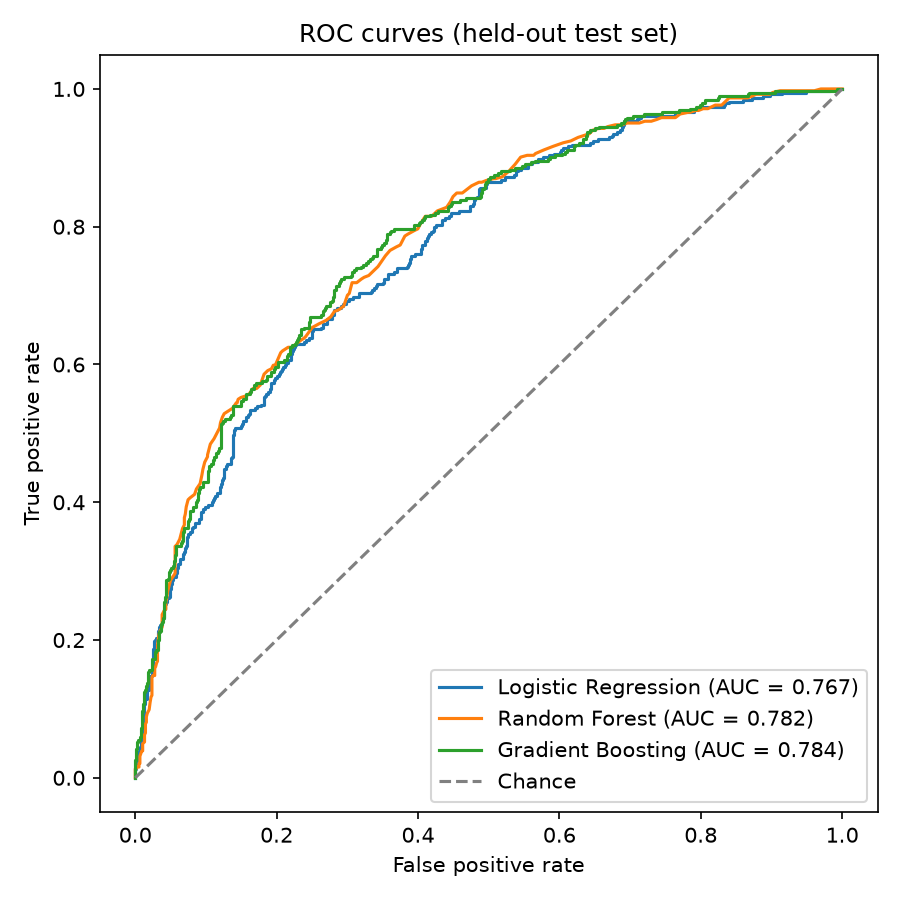
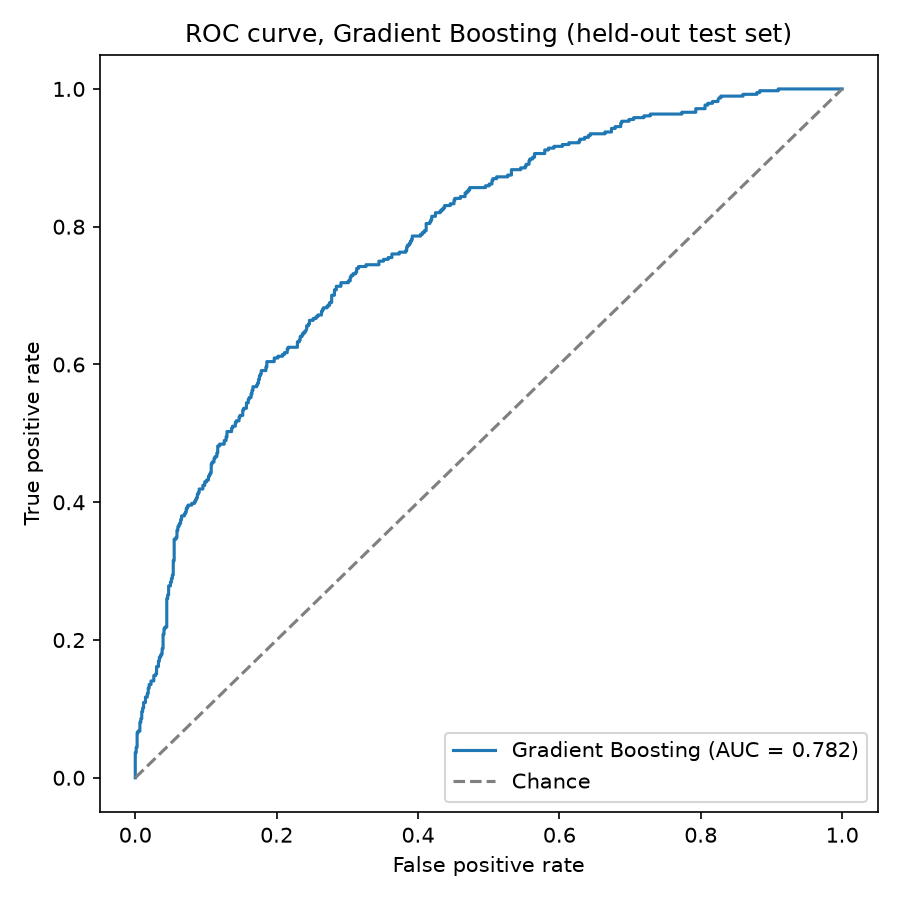
Fixed CV and testing procedure
Only compared models within CV then picked and tested one model only

diff --git a/risk_model.py b/risk_model.py
@@ -1,6 +1,8 @@
-"""Phase 4: predictive 30-day mortality risk model, compared across three
-scikit-learn classifiers, evaluated on a held-out test set, and interpreted
-via permutation feature importance."""
+"""Phase 4: predictive 30-day mortality risk model. Three scikit-learn
+classifiers are hyperparameter-tuned and compared entirely within
+cross-validation on the training set; only the single best-performing model
+touches the held-out test set, exactly once, for final evaluation and
+feature importance."""
 
 import os
 
@@ -11,14 +13,8 @@ import pandas as pd
 from sklearn.ensemble import GradientBoostingClassifier, RandomForestClassifier
 from sklearn.inspection import permutation_importance
 from sklearn.linear_model import LogisticRegression
-from sklearn.metrics import (
-    accuracy_score,
-    precision_score,
-    recall_score,
-    roc_auc_score,
-    roc_curve,
-)
-from sklearn.model_selection import StratifiedKFold, cross_val_score, train_test_split
+from sklearn.metrics import accuracy_score, precision_score, recall_score, roc_auc_score, roc_curve
+from sklearn.model_selection import GridSearchCV, StratifiedKFold, train_test_split
 from sklearn.pipeline import Pipeline
 from sklearn.preprocessing import StandardScaler
 
@@ -56,101 +52,116 @@ X_train, X_test, y_train, y_test = train_test_split(
     X, y, test_size=0.2, stratify=y, random_state=42
 )
 
-# Logistic regression needs standardized inputs to converge reliably and for
-# coefficient magnitudes to be comparable; tree ensembles are scale-invariant
-# and split on raw values directly, so only LR is wrapped in a scaler.
-models = {
-    "Logistic Regression": Pipeline([
-        ("scaler", StandardScaler()),
-        ("clf", LogisticRegression(max_iter=1000, random_state=42)),
-    ]),
-    "Random Forest": RandomForestClassifier(n_estimators=300, random_state=42, n_jobs=-1),
-    "Gradient Boosting": GradientBoostingClassifier(random_state=42),
+# max_iter is a solver convergence setting, not a tunable hyperparameter, so
+# it's fixed rather than searched. C, n_estimators, max_depth, etc. do trade
+# off bias vs. variance and are searched via GridSearchCV below. Grids are
+# kept small deliberately: this is a hyperparameter search, not an exhaustive
+# sweep.
+model_specs = {
+    "Logistic Regression": (
+        Pipeline([
+            ("scaler", StandardScaler()),
+            ("clf", LogisticRegression(max_iter=1000, random_state=42)),
+        ]),
+        {"clf__C": [0.01, 0.1, 1, 10, 100]},
+    ),
+    "Random Forest": (
+        RandomForestClassifier(random_state=42, n_jobs=-1),
+        {
+            "n_estimators": [200, 400],
+            "max_depth": [None, 10, 20],
+            "min_samples_leaf": [1, 5, 10],
+        },
+    ),
+    "Gradient Boosting": (
+        GradientBoostingClassifier(random_state=42),
+        {
+            "n_estimators": [100, 200],
+            "learning_rate": [0.05, 0.1],
+            "max_depth": [2, 3],
+        },
+    ),
 }
 
-# --- Cross-validated model comparison ----------------------------------------
+# --- Cross-validated hyperparameter search and model selection --------------
 
+# Model comparison and hyperparameter tuning happen in the same step and use
+# only X_train/y_train: for each model type, GridSearchCV searches its grid
+# under 5-fold CV and keeps the best-scoring combination. The test set is not
+# involved anywhere in this block.
 cv = StratifiedKFold(n_splits=5, shuffle=True, random_state=42)
+
+searches = {}
 cv_rows = []
-for name, model in models.items():
-    scores = cross_val_score(model, X_train, y_train, cv=cv, scoring="roc_auc")
+for name, (estimator, param_grid) in model_specs.items():
+    search = GridSearchCV(estimator, param_grid, cv=cv, scoring="roc_auc", n_jobs=-1)
+    search.fit(X_train, y_train)
+    searches[name] = search
     cv_rows.append({
         "model": name,
-        "cv_roc_auc_mean": scores.mean(),
-        "cv_roc_auc_std": scores.std(),
+        "best_cv_roc_auc": search.best_score_,
+        "best_params": search.best_params_,
     })
+
 cv_results = pd.DataFrame(cv_rows)
 cv_results.to_csv("cv_model_comparison.csv", index=False)
 print(cv_results.to_string(index=False))
 
-# --- Held-out test set evaluation --------------------------------------------
+# Single winner, selected purely on CV performance, before the test set is
+# touched at all.
+best_model_name = cv_results.loc[cv_results["best_cv_roc_auc"].idxmax(), "model"]
+best_model = searches[best_model_name].best_estimator_
+print(f"\nSelected model: {best_model_name}")
 
-fitted_models = {}
-test_rows = []
-for name, model in models.items():
-    model.fit(X_train, y_train)
-    fitted_models[name] = model
+# --- Held-out test set evaluation (single model, single evaluation) ---------
 
-    y_pred = model.predict(X_test)
-    y_proba = model.predict_proba(X_test)[:, 1]
-    test_rows.append({
-        "model": name,
-        "accuracy": accuracy_score(y_test, y_pred),
-        "precision": precision_score(y_test, y_pred),
-        "recall": recall_score(y_test, y_pred),
-        "roc_auc": roc_auc_score(y_test, y_proba),
-    })
-test_results = pd.DataFrame(test_rows)
-test_results.to_csv("test_set_metrics.csv", index=False)
-print(test_results.to_string(index=False))
+y_pred = best_model.predict(X_test)
+y_proba = best_model.predict_proba(X_test)[:, 1]
+
+test_metrics = pd.DataFrame([{
+    "model": best_model_name,
+    "accuracy": accuracy_score(y_test, y_pred),
+    "precision": precision_score(y_test, y_pred),
+    "recall": recall_score(y_test, y_pred),
+    "roc_auc": roc_auc_score(y_test, y_proba),
+}])
+test_metrics.to_csv("test_set_metrics.csv", index=False)
+print(test_metrics.to_string(index=False))
 
 fig, ax = plt.subplots(figsize=(6, 6))
-for name, model in fitted_models.items():
-    y_proba = model.predict_proba(X_test)[:, 1]
-    fpr, tpr, _ = roc_curve(y_test, y_proba)
-    auc = roc_auc_score(y_test, y_proba)
-    ax.plot(fpr, tpr, label=f"{name} (AUC = {auc:.3f})")
+fpr, tpr, _ = roc_curve(y_test, y_proba)
+auc = roc_auc_score(y_test, y_proba)
+ax.plot(fpr, tpr, label=f"{best_model_name} (AUC = {auc:.3f})")
 ax.plot([0, 1], [0, 1], linestyle="--", color="grey", label="Chance")
 ax.set_xlabel("False positive rate")
 ax.set_ylabel("True positive rate")
-ax.set_title("ROC curves (held-out test set)")
+ax.set_title(f"ROC curve, {best_model_name} (held-out test set)")
 ax.legend(loc="lower right")
 fig.tight_layout()
 fig.savefig(f"{FIG_DIR}/roc_curves.png", dpi=150)
 plt.close(fig)
 
-# --- Feature importance -------------------------------------------------------
+# --- Feature importance (single model) ---------------------------------------
 
-# Permutation importance (not each model's built-in importance): impurity-
-# based importance is biased toward high-cardinality/continuous features, so
-# using one model-agnostic method keeps the three models comparable.
-importance_rows = []
-for name, model in fitted_models.items():
-    result = permutation_importance(
-        model, X_test, y_test, scoring="roc_auc", n_repeats=10, random_state=42, n_jobs=-1
-    )
-    for feature, mean_imp, std_imp in zip(covariates, result.importances_mean, result.importances_std):
-        importance_rows.append({
-            "model": name,
-            "feature": feature,
-            "importance_mean": mean_imp,
-            "importance_std": std_imp,
-        })
-importance_table = pd.DataFrame(importance_rows)
+# Permutation importance also consumes the test set, so it's computed once,
+# for the one selected model, not once per candidate model.
+result = permutation_importance(
+    best_model, X_test, y_test, scoring="roc_auc", n_repeats=10, random_state=42, n_jobs=-1
+)
+importance_table = pd.DataFrame({
+    "feature": covariates,
+    "importance_mean": result.importances_mean,
+    "importance_std": result.importances_std,
+}).sort_values("importance_mean", ascending=False)
 importance_table.to_csv("feature_importance.csv", index=False)
 
-fig, axes = plt.subplots(1, 3, figsize=(18, 8))
-for ax, name in zip(axes, fitted_models):
-    top = (
-        importance_table[importance_table["model"] == name]
-        .sort_values("importance_mean", ascending=False)
-        .head(15)
-    )
-    # Escape "$" so matplotlib doesn't parse income labels as mathtext.
-    labels = top["feature"].str.replace("$", r"\$", regex=False)
-    ax.barh(labels[::-1], top["importance_mean"][::-1])
-    ax.set_title(name)
-    ax.set_xlabel("Permutation importance (ROC-AUC drop)")
+fig, ax = plt.subplots(figsize=(8, 10))
+top = importance_table.head(20)
+# Escape "$" so matplotlib doesn't parse income labels as mathtext.
+labels = top["feature"].str.replace("$", r"\$", regex=False)
+ax.barh(labels[::-1], top["importance_mean"][::-1])
+ax.set_xlabel("Permutation importance (ROC-AUC drop)")
+ax.set_title(f"Feature importance, {best_model_name}")
 fig.tight_layout()
 fig.savefig(f"{FIG_DIR}/feature_importance.png", dpi=150)
 plt.close(fig)

diff --git a/README.md b/README.md
@@ -49,8 +49,8 @@ Additional Phase 1 decisions:
 
 ## Phase 4 — Predictive Risk Modeling & Feature Importance
 
-**Setup.** Three scikit-learn classifiers, logistic regression (baseline), random forest, and gradient boosting, predict `death_d30` from the same 63 admission-characteristic covariates used in Phases 2-3 (the RHC treatment indicator itself is deliberately excluded, keeping this a risk score based on admission data, not a treatment-effect model). Data is split 80/20 (stratified) into train and test sets; models are compared via stratified 5-fold cross-validation on the training set, then evaluated once on the untouched test set.
+**Setup.** Three scikit-learn classifiers, logistic regression (baseline), random forest, and gradient boosting, predict `death_d30` from the same 63 admission-characteristic covariates used in Phases 2-3 (the RHC treatment indicator itself is deliberately excluded, keeping this a risk score based on admission data, not a treatment-effect model). Data is split 80/20 (stratified) into train and test sets. Model comparison, hyperparameter tuning, and model selection all happen inside stratified 5-fold cross-validation on the training set only; the held-out test set is touched exactly once, by the single winning model, for final evaluation.
 
-**Model comparison.** All three models perform similarly (`cv_model_comparison.csv`): cross-validated ROC-AUC of 0.758 (logistic regression), 0.763 (random forest), and 0.767 (gradient boosting). On the held-out test set (`test_set_metrics.csv`, `figures/roc_curves.png`), ROC-AUC lands at 0.767, 0.782, and 0.784 respectively, with gradient boosting and random forest offering a modest edge over the linear baseline, but not a dramatic one. That the interpretable baseline stays competitive with the ensembles is itself worth noting: it suggests the relationship between admission characteristics and 30-day mortality is largely linear/additive rather than driven by complex interactions.
+**Model comparison and selection.** Each model type is hyperparameter-tuned via grid search under the same 5-fold CV (`cv_model_comparison.csv`): logistic regression's best regularization strength reaches a CV ROC-AUC of 0.759, random forest 0.768, and gradient boosting 0.769. Gradient boosting is selected as the single best-performing model on CV score alone, before the test set is ever touched. On the held-out test set (`test_set_metrics.csv`, `figures/roc_curves.png`), it reaches accuracy 0.742, precision 0.688, recall 0.419, and ROC-AUC 0.782, consistent with its CV score, meaning it generalizes about as well as it appeared to during cross-validation.
 
-**Feature importance.** Permutation importance (`feature_importance.csv`, `figures/feature_importance.png`), the drop in test-set ROC-AUC when a feature is randomly shuffled, is used across all three models so the comparison isn't skewed by any one model's built-in importance metric. `surv2md1` (the SUPPORT model's own 2-month survival estimate) dominates in every model, unsurprising since it's already a mortality-risk estimate itself. Beyond that, `no_resus_Yes` (DNR status), `bili1` (bilirubin), `aps` (APACHE severity), and `category_Coma` consistently rank near the top across all three models, a plain-language read: liver function, overall physiologic severity, neurological status, and code status are the strongest drivers of 30-day mortality risk at admission.
+**Feature importance.** Permutation importance (`feature_importance.csv`, `figures/feature_importance.png`), the drop in test-set ROC-AUC when a feature is randomly shuffled, is computed once, for the selected gradient boosting model. `surv2md1` (the SUPPORT model's own 2-month survival estimate) dominates by a wide margin, unsurprising since it's already a mortality-risk estimate itself. Beyond that, `das2d3pc` (functional status), `no_resus_Yes` (DNR status), and `bili1` (bilirubin) are the next-strongest drivers, a plain-language read: baseline functional status, code status, and liver function are the strongest predictors of 30-day mortality risk at admission, after the SUPPORT prognostic score itself.
